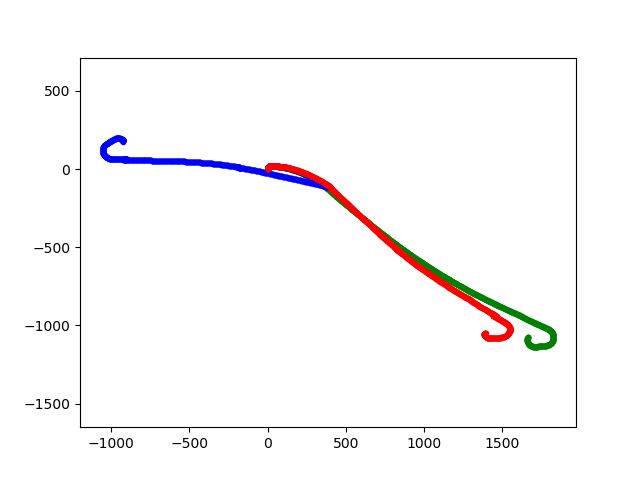
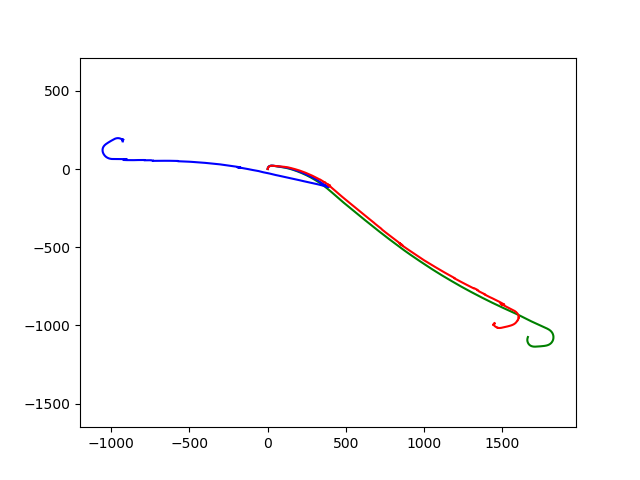
checking auxiliary keypoints

Changed region(s): [[0.1562, 0.2812, 0.875, 0.75]]

diff --git a/kpT0.py b/kpT0.py
@@ -125,9 +125,9 @@ def plot_trajs(P, outfn, colors='gbr', glb=False):
     #ax = fig.add_subplot(111)
     #ax2 = fig.add_subplot(111)
     for i, p in enumerate(pts):
-        axs.plot(p[:, 0], p[:, 2], f'{colors[i]}.')
-        #axs[1].plot(p[:,0],p[:,1],f'{colors[i]}.')
-        #axs[2].plot(p[:,1],p[:,2],f'{colors[i]}.')
+        axs.plot(p[:, 0], p[:, 2], f'{colors[i]}-')
+        #axs[1].plot(p[:,0],p[:,1],f'{colors[i]}-')
+        #axs[2].plot(p[:,1],p[:,2],f'{colors[i]}-')
     
     plt.savefig(outfn)
     plt.close(fig)
@@ -177,13 +177,12 @@ class KpT0:
                 p1, st, err = cv2.calcOpticalFlowPyrLK(prev_image, image, points,
                                                        None, **lk_params)
 
-                self.avids = [j for j in range(len(st)) if st[j] == 1.0]
-
                 E, mask = cv2.findEssentialMat(p1, points, camera_matrix,
                                                cv2.RANSAC, 0.999, 0.1, None)
                 
                 self.vids = [j for j in range(len(mask)) if mask[j] == 1.0]
-                
+                self.avids = [j for j in range(len(st)) if st[j] == 1.0 and mask[j] == 0.0]
+
                 _, R, t, mask = cv2.recoverPose(E, p1, points, camera_matrix, mask=mask) # , mask=mask
                 T0 = np.eye(4)
                 T0[:3, :3] = R
@@ -217,7 +216,7 @@ class KpT0:
 
 
 if __name__ == '__main__':
-    seq_id = '01'
+    seq_id = '06'
     bdir = '/home/ronnypetson/Downloads/kitti_seq/dataset/'
     h,w = 376, 1241
     kp = KpT0(h, w, bdir, seq_id)
